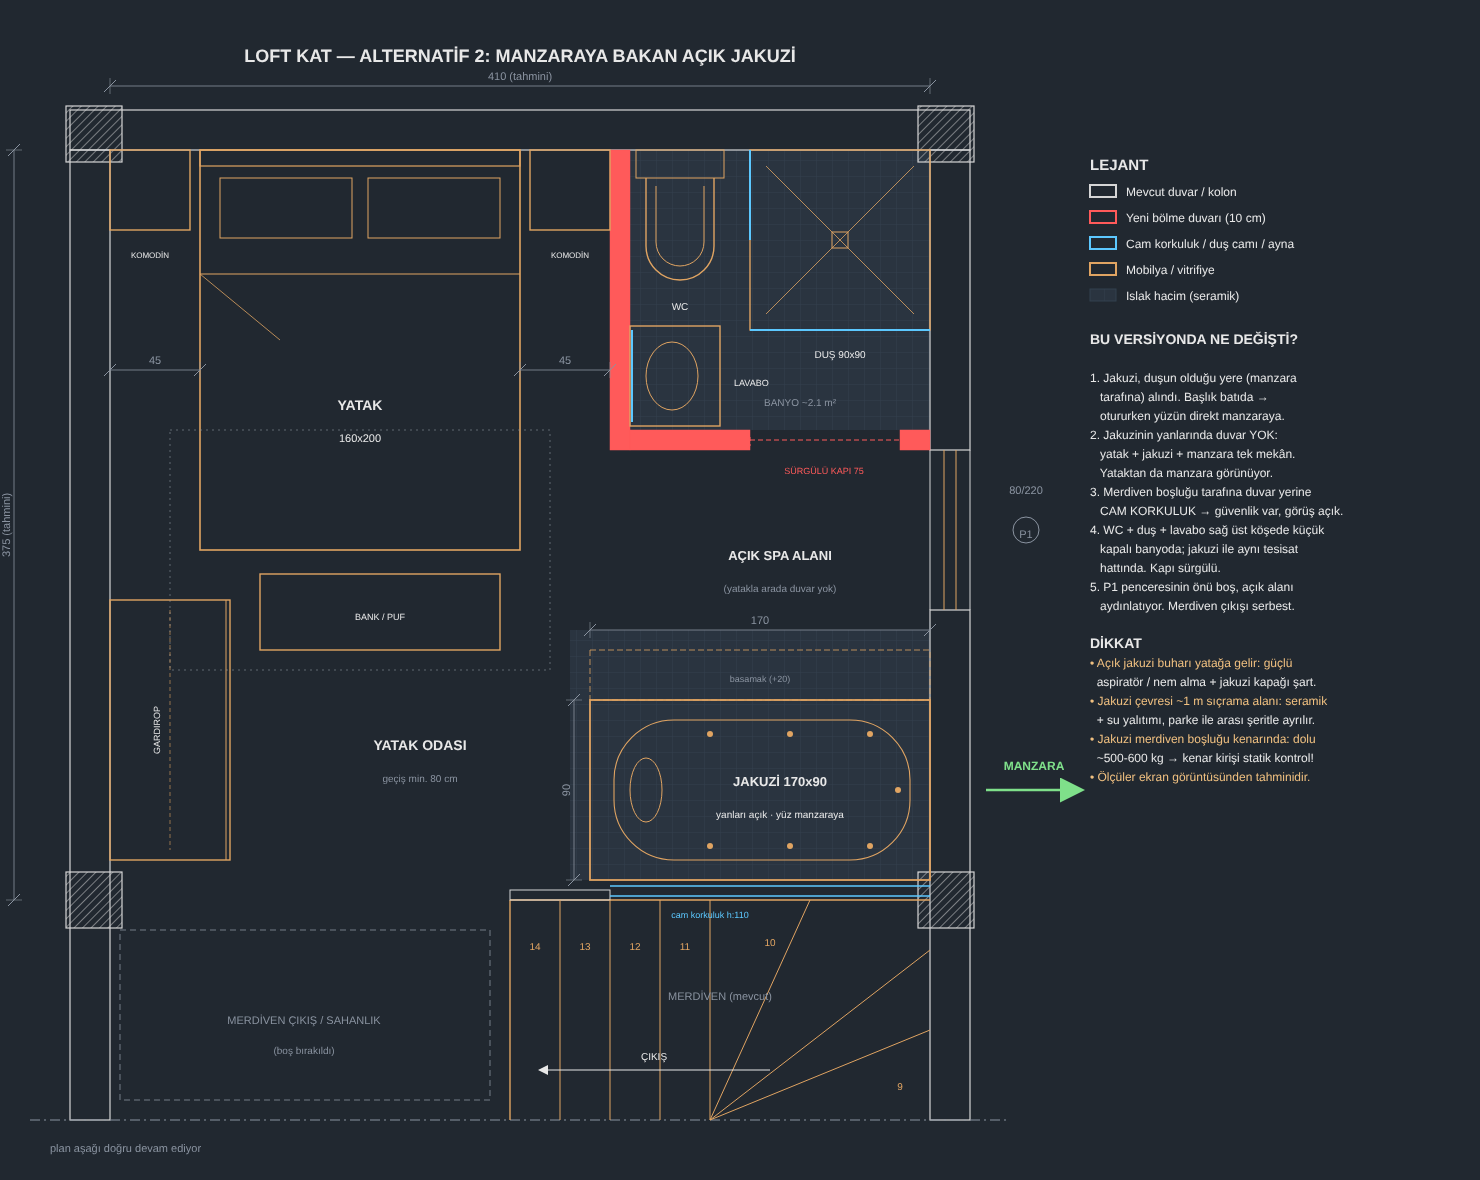
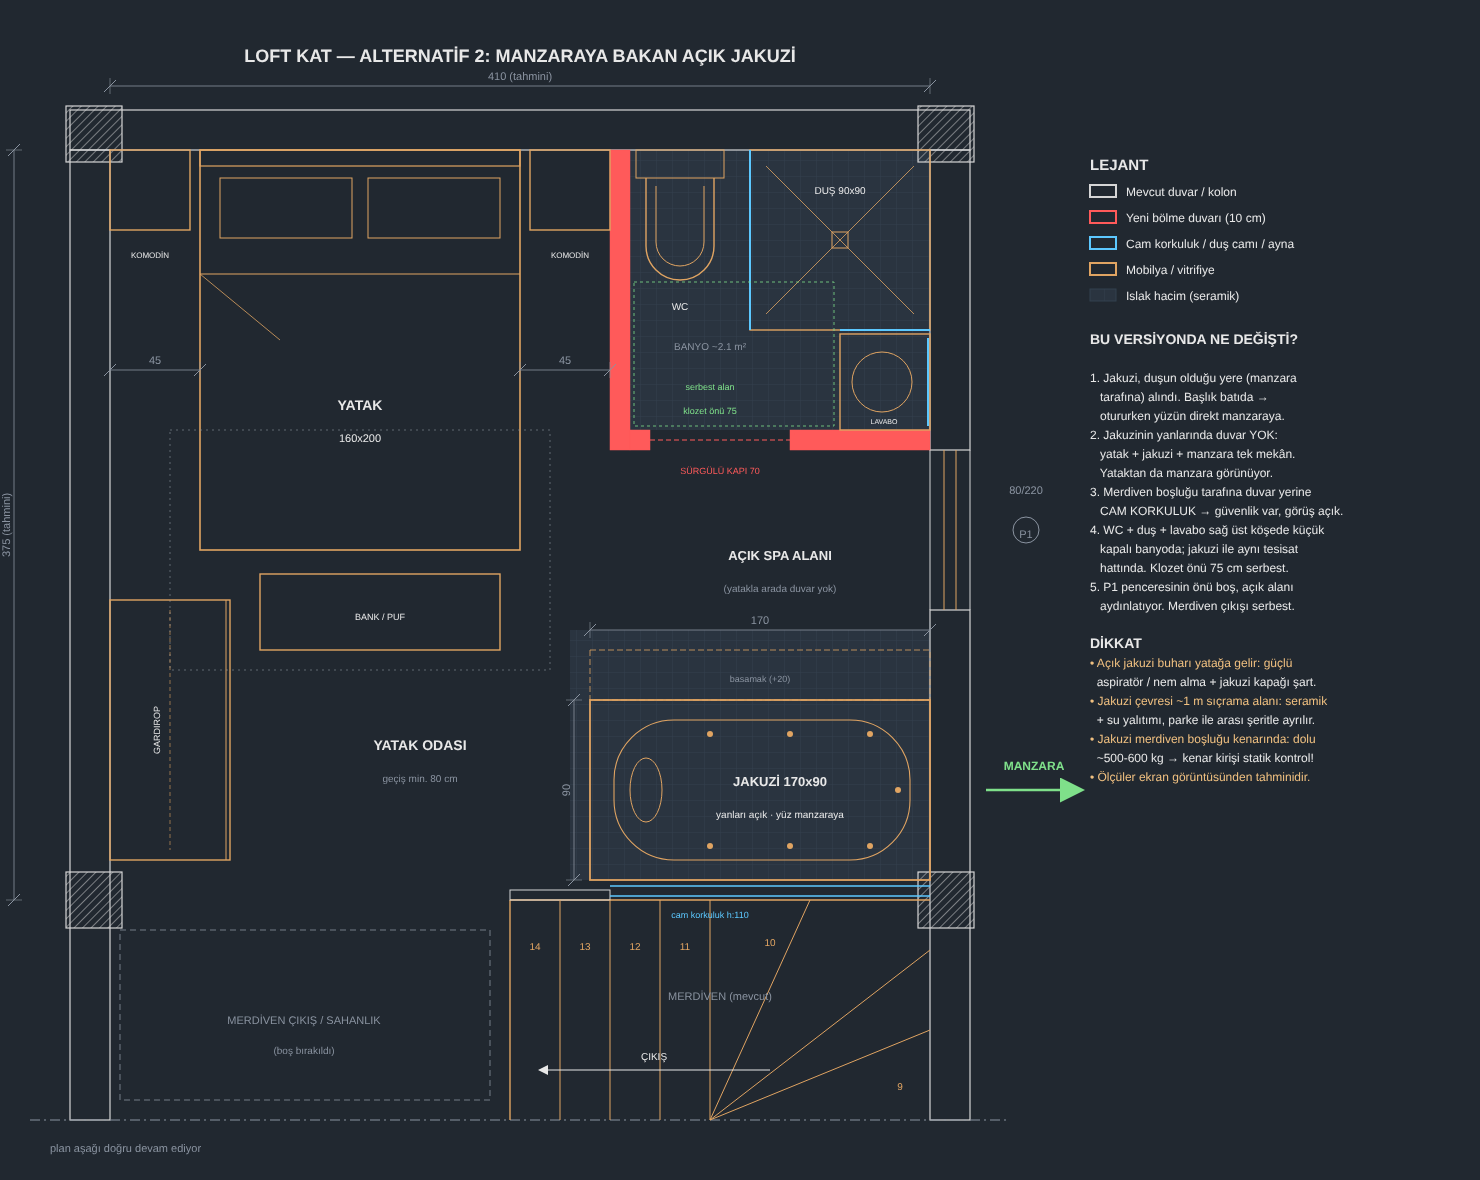
Alternatif 2: banyoda klozete geçiş açıldı (lavabo sağ duvara, kapı sola)
Claude-Session: https://claude.ai/code/session_01PqNmXisdBeBzMHvc1HEz7R

Changed region(s): [[0.4041, 0.2746, 0.6216, 0.3966], [0.777, 0.4576, 0.8703, 0.4881]]

diff --git a/loft/gen_loft_plan_v2.py b/loft/gen_loft_plan_v2.py
@@ -133,12 +133,12 @@ text(97, 452, "(boş bırakıldı)", 10, DIM)
 # ---------------------------------------------------------------- yeni bölme duvarları (10 cm)
 # sadece kapalı banyo (sağ üst) duvarlı; jakuzi tarafında duvar YOK
 rect(250, 0, 10, 150, NEW, NEW, 0.5)                  # yatak-banyo arası
-rect(260, 140, 60, 10, NEW, NEW, 0.5)                 # banyo alt duvarı (sol parça)
-rect(395, 140, 15, 10, NEW, NEW, 0.5)                 # banyo alt duvarı (sağ parça)
-# sürgülü kapı 75 — duvar içine (sola) kayar
-line(320, 145, 395, 145, NEW, 1, 'stroke-dasharray="5 3"')
-rect(262, 142, 58, 6, NEW, "none", 1, 'stroke-dasharray="4 3"')
-text(357, 162, "SÜRGÜLÜ KAPI 75", 9, NEW)
+rect(260, 140, 10, 10, NEW, NEW, 0.5)                 # banyo alt duvarı (sol parça)
+rect(340, 140, 70, 10, NEW, NEW, 0.5)                 # banyo alt duvarı (sağ parça, kapı cebi)
+# sürgülü kapı 70 — duvar içine (sağa) kayar
+line(270, 145, 340, 145, NEW, 1, 'stroke-dasharray="5 3"')
+rect(342, 142, 66, 6, NEW, "none", 1, 'stroke-dasharray="4 3"')
+text(305, 162, "SÜRGÜLÜ KAPI 70", 9, NEW)
 
 # merdiven boşluğu kenarı: CAM KORKULUK (duvar değil, görüş kesilmez)
 line(250, 368, W, 368, GLASS, 1.6)
@@ -172,20 +172,23 @@ out.append(f'<path d="M{X(268)} {Y(14)} L{X(268)} {Y(48)} A{p(17)} {p(17)} 0 0 0
 out.append(f'<path d="M{X(273)} {Y(18)} L{X(273)} {Y(46)} A{p(12)} {p(12)} 0 0 0 {X(297)} {Y(46)} '
            f'L{X(297)} {Y(18)}" stroke="{FURN}" fill="none" stroke-width="1"/>')
 text(285, 80, "WC", 10, TXT)
-# lavabo 60x45 — sol duvarda
-rect(260, 88, 45, 50)
-out.append(f'<ellipse cx="{X(281)}" cy="{Y(113)}" rx="{p(13)}" ry="{p(17)}" stroke="{FURN}" fill="none"/>')
-line(261, 90, 261, 136, GLASS, 2)  # ayna
-text(312, 118, "LAVABO", 9, TXT, anchor="start")
+# lavabo 45x45 — sağ duvarda, duşun altında (klozet önü serbest kalır)
+rect(365, 92, 45, 48)
+out.append(f'<ellipse cx="{X(386)}" cy="{Y(116)}" rx="{p(15)}" ry="{p(15)}" stroke="{FURN}" fill="none"/>')
+line(409, 94, 409, 138, GLASS, 2)  # ayna
+text(387, 137, "LAVABO", 7, TXT)
 # duş 90x90 — sağ üst köşe
 rect(320, 0, 90, 90)
-line(320, 0, 320, 45, GLASS, 2)
-line(320, 90, 410, 90, GLASS, 2)
+line(320, 0, 320, 90, GLASS, 2)       # sabit cam
+line(365, 90, 410, 90, GLASS, 2)      # giriş 320-365 arası
 line(328, 82, 402, 8, FURN, 0.8)
 line(328, 8, 402, 82, FURN, 0.8)
 rect(361, 41, 8, 8, FURN, "none", 1)
-text(365, 104, "DUŞ 90x90", 10, TXT)
-text(345, 128, "BANYO ~2.1 m²", 10, DIM)
+text(365, 22, "DUŞ 90x90", 10, TXT)
+text(300, 100, "BANYO ~2.1 m²", 10, DIM)
+rect(262, 66, 100, 72, "#7fe08a", "none", 0.8, 'stroke-dasharray="3 3"')
+text(300, 120, "serbest alan", 9, "#7fe08a")
+text(300, 132, "klozet önü 75", 9, "#7fe08a")
 
 # açık alan etiketi
 text(335, 205, "AÇIK SPA ALANI", 13, TXT, weight="bold")
@@ -264,7 +267,7 @@ notes = [
     "   CAM KORKULUK → güvenlik var, görüş açık.",
     "4. WC + duş + lavabo sağ üst köşede küçük",
     "   kapalı banyoda; jakuzi ile aynı tesisat",
-    "   hattında. Kapı sürgülü.",
+    "   hattında. Klozet önü 75 cm serbest.",
     "5. P1 penceresinin önü boş, açık alanı",
     "   aydınlatıyor. Merdiven çıkışı serbest.",
     "",
